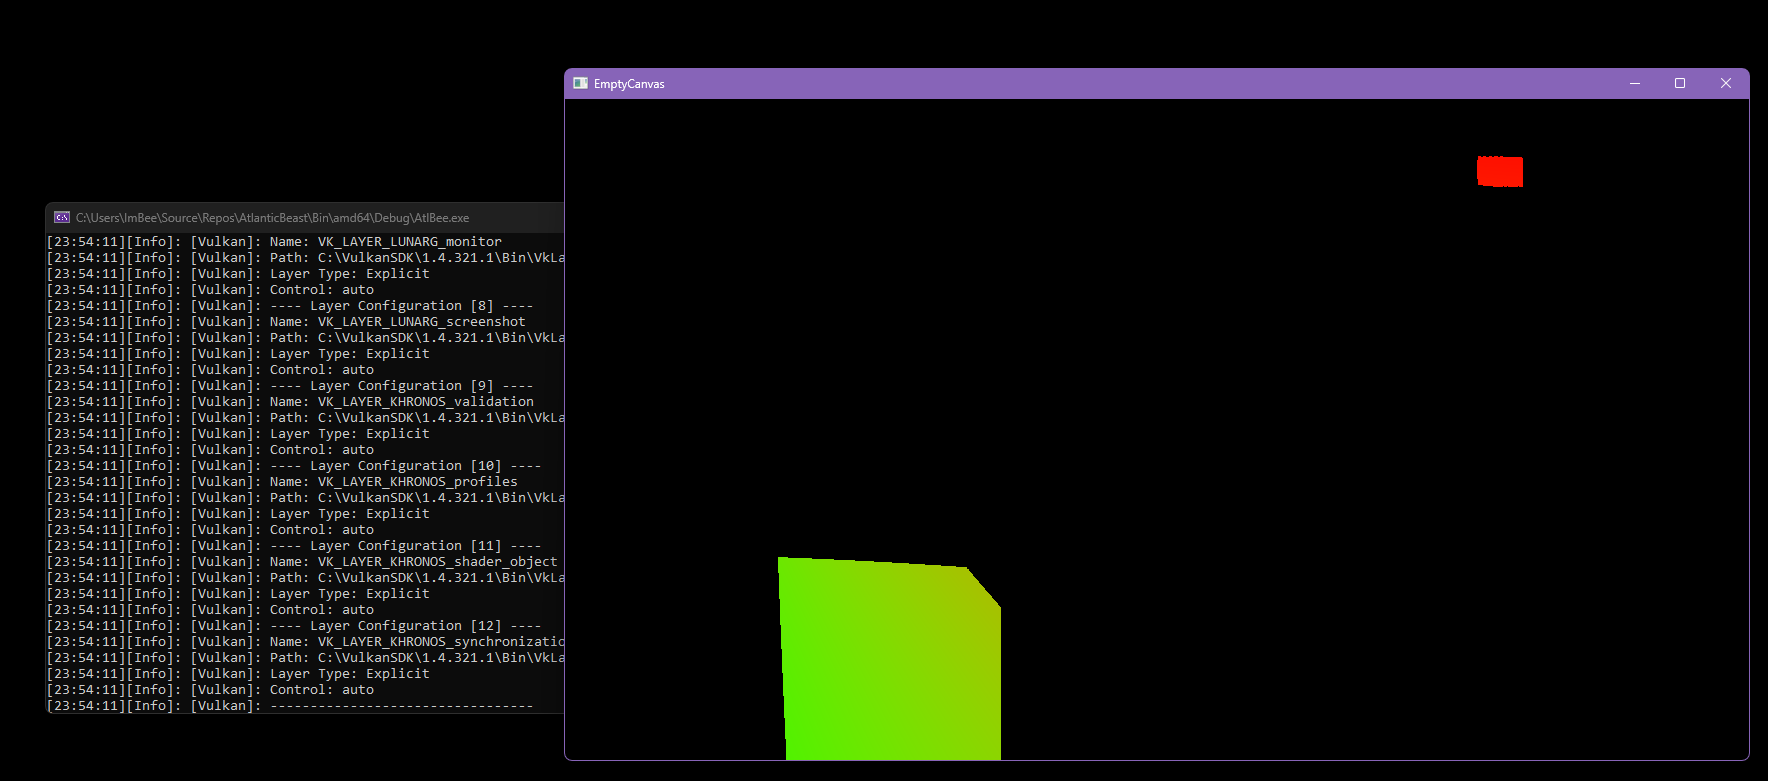
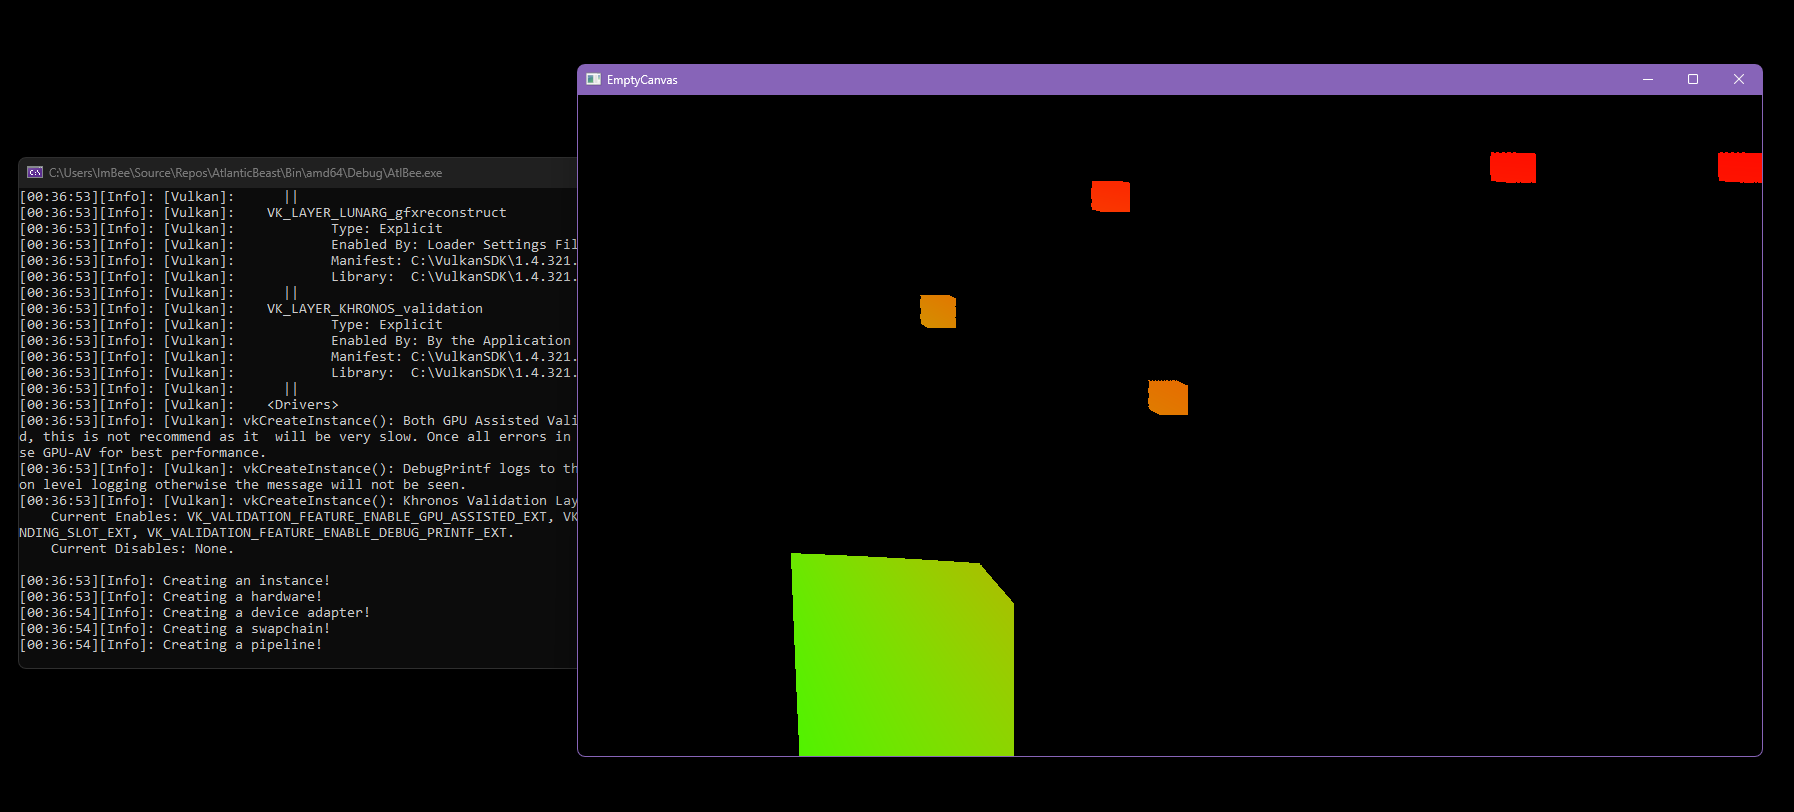
...

diff --git a/Engine/Voxels/Private/Renderer.cpp b/Engine/Voxels/Private/Renderer.cpp
@@ -109,7 +109,7 @@ void Renderer::Render()
 
     uint32_t groupCountX = (m_pWindowDesc->Width + 15) / 16;
     uint32_t groupCountY = (m_pWindowDesc->Height + 15) / 16;
-	AB_LOG(Core::Debug::Info, L"Dispatching compute shader with %d x %d work groups", groupCountX, groupCountY);
+	//AB_LOG(Core::Debug::Info, L"Dispatching compute shader with %d x %d work groups", groupCountX, groupCountY);
     vkCmdDispatch(m_CommandBuffer, groupCountX, groupCountY, 1);
 
     VkImageMemoryBarrier presentBarrier{};

diff --git a/Engine/Voxels/Private/VoxelGrid.cpp b/Engine/Voxels/Private/VoxelGrid.cpp
@@ -24,6 +24,10 @@ vector<Voxel> VoxelGrid::GenerateGrid()
     size_t uCubeStart   = 33;
     size_t uCubeEnd     = 44;
 	voxelGrid[500].Type = 1;
+    voxelGrid[1000].Type = 1;
+    voxelGrid[800].Type = 1;
+    voxelGrid[550].Type = 1;
+    voxelGrid[508].Type = 1;
     for (size_t z = uCubeStart; z < uCubeEnd; ++z) {
         for (size_t y = uCubeStart; y < uCubeEnd; ++y) {
             for (size_t x = uCubeStart; x < uCubeEnd; ++x) {
